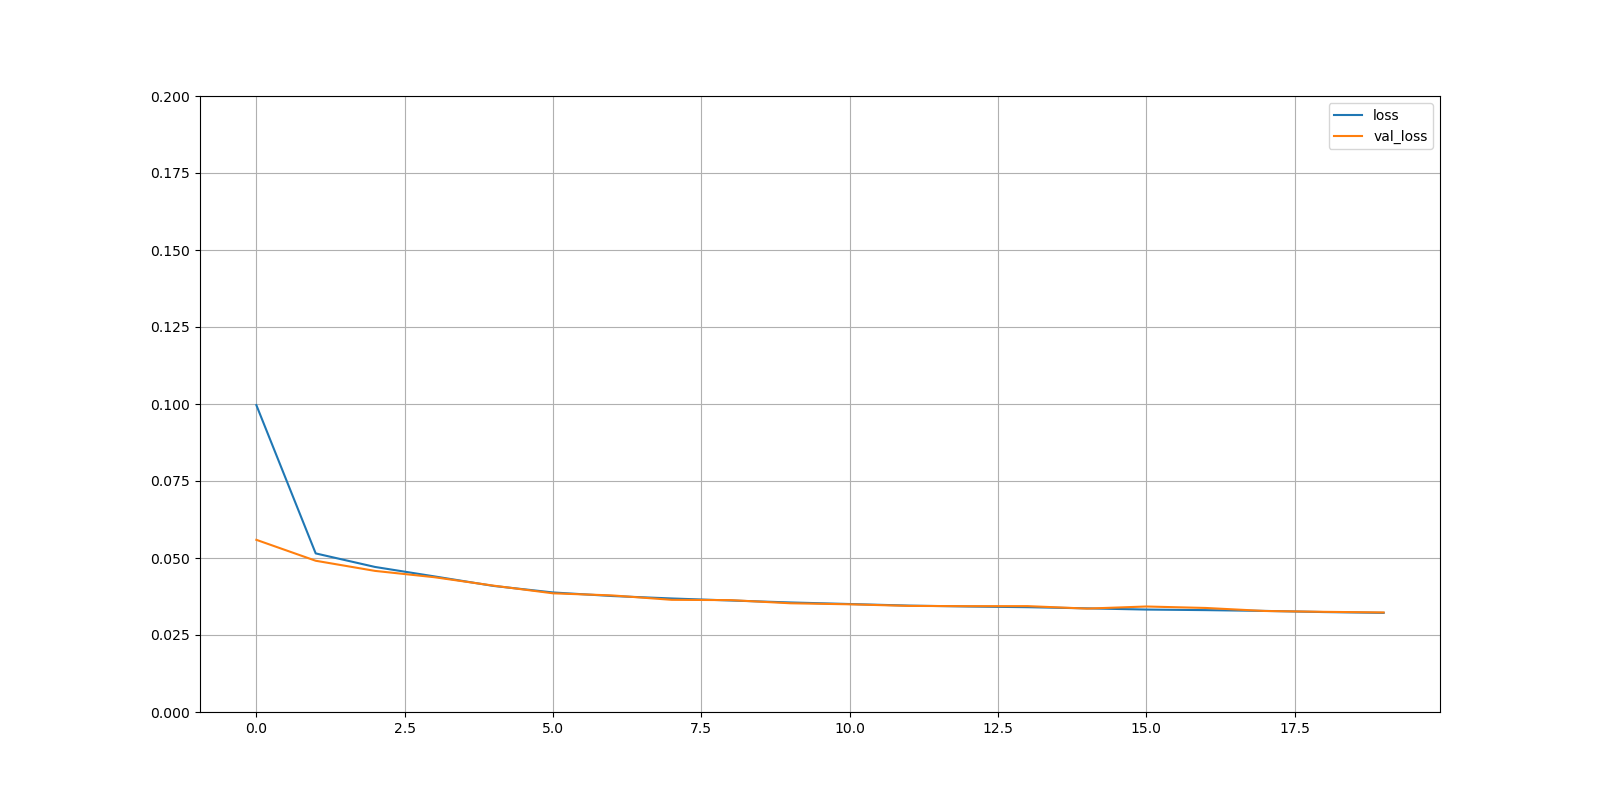
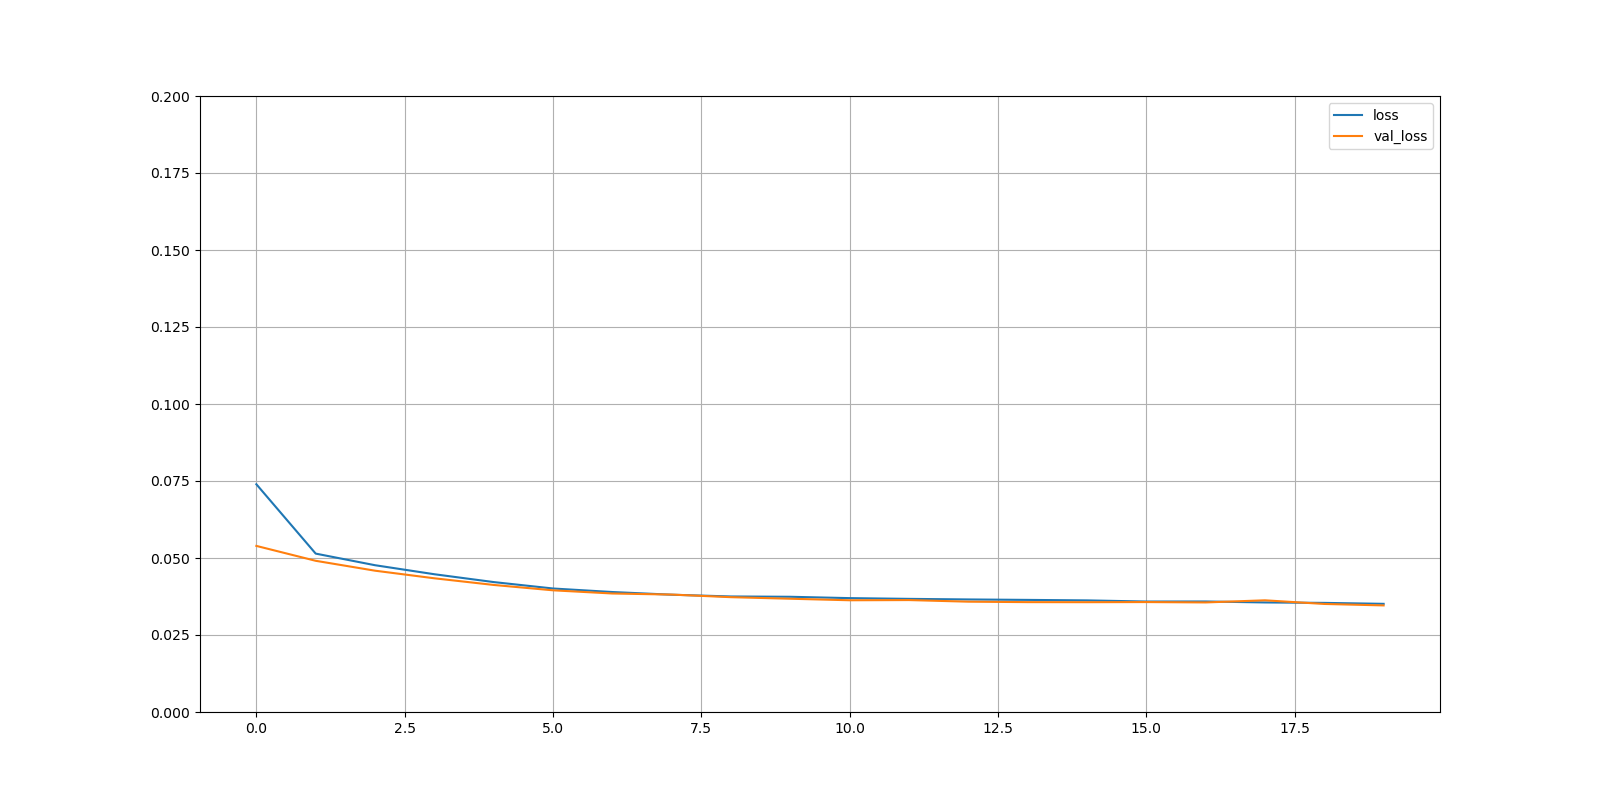
Custom RNN

Changed region(s): [[0.2188, 0.6875, 0.875, 0.7812], [0.1562, 0.5938, 0.2188, 0.6875]]

diff --git a/RNN.py b/RNN.py
@@ -2,7 +2,12 @@ import numpy as np
 from numpy import random
 import matplotlib.pyplot as plt
 import tensorflow as tf
+from tensorflow import keras
 import pandas as pd
+
+gpu = tf.config.experimental.list_physical_devices('GPU')
+tf.config.experimental.set_memory_growth(gpu[0], True)
+
 
 def generate_time_series(batch_size = 1 , n_time_steps = 50, n = 1):
     freq1, freq2, offset1 , offset2 = random.rand(4, batch_size, 1)
@@ -18,6 +23,20 @@ def generate_time_series(batch_size = 1 , n_time_steps = 50, n = 1):
         batch_size,n_time_steps
     )
     return series.astype(np.float32)
+
+class LNSimpleRNNCell(keras.layers.Layer):
+    def __init__(self, units, activation="tanh", **kwargs):
+        super().__init__(**kwargs)
+        self.state_size = units
+        self.output_size = units
+        self.simple_rnn_cell = keras.layers.SimpleRNNCell(units,
+        activation=None)
+        self.layer_norm = keras.layers.LayerNormalization()
+        self.activation = keras.activations.get(activation)
+    def call(self, inputs, states):
+        outputs, new_states = self.simple_rnn_cell(inputs, states)
+        norm_outputs = self.activation(self.layer_norm(outputs))
+        return norm_outputs, [norm_outputs]
 
 steps = 50
 batch_size = 10000
@@ -35,19 +54,19 @@ X_test, y_test = dataset[9000:, 0:steps], Y[9000:,:,:]
 print(y_valid.shape, y_train.shape)
 
 
-input = tf.keras.layers.Input(shape = (steps,1))
-x = tf.keras.layers.SimpleRNN(20, return_sequences =True)(input)
-x = tf.keras.layers.SimpleRNN(20, return_sequences = True)(input)
-y = tf.keras.layers.SimpleRNN(10, return_sequences = True)(x)
-model = tf.keras.Model(inputs = [input], outputs = [y])
+# input = tf.keras.layers.Input(shape = (steps,1))
+# x = tf.keras.layers.SimpleRNN(20, return_sequences =True)(input)
+# x = tf.keras.layers.SimpleRNN(20, return_sequences = True)(input)
+# y = tf.keras.layers.TimeDistributed(tf.keras.layers.Dense(10))(x)
+# model = tf.keras.Model(inputs = [input], outputs = [y])
 
-print(model.summary())
-model.compile(loss = "mean_squared_error", optimizer = "Adam")
-history = model.fit(X_train, y_train,epochs = 20,validation_data=(X_valid, y_valid))
-pd.DataFrame(history.history).plot(figsize = (16, 8))
-plt.grid(True)
-plt.gca().set_ylim(0,0.2)
-plt.savefig('./plot7.png')
+# print(model.summary())
+# model.compile(loss = "mean_squared_error", optimizer = "Adam")
+# history = model.fit(X_train, y_train,epochs = 20,validation_data=(X_valid, y_valid))
+# pd.DataFrame(history.history).plot(figsize = (16, 8))
+# plt.grid(True)
+# plt.gca().set_ylim(0,0.2)
+# plt.savefig('./plot7.png')
 
 
 
@@ -57,25 +76,26 @@ plt.savefig('./plot7.png')
 # print(y_valid.shape, y_train.shape)
 
 # input = tf.keras.layers.Input(shape = (steps,1))
-#1. x = tf.keras.layers.Flatten()(input)
+# x = tf.keras.layers.Flatten()(input)
 # y = tf.keras.layers.Dense(1)(x)
 
-# x = tf.keras.layers.SimpleRNN(20, return_sequences =True)(input)
-# x = tf.keras.layers.SimpleRNN(20, return_sequences = False)(input)
-# y = tf.keras.layers.Dense(10)(x)
 
-# model = tf.keras.Model(inputs = [input], outputs = [y])
-# print(model.summary())
-# model.compile(loss = "mean_squared_error", optimizer = "Adam")
-# history = model.fit(X_train, y_train,epochs = 20,validation_data=(X_valid, y_valid))
-# print(history.params)
-# print(history.epoch)
-# print(history.history)
+input = tf.keras.layers.Input(shape = (steps,1))
+x = tf.keras.layers.SimpleRNN(20, return_sequences =True)(input)
+x = keras.layers.RNN(LNSimpleRNNCell(20), return_sequences=True)(x)
+y = keras.layers.TimeDistributed(keras.layers.Dense(10))(x)
 
-# pd.DataFrame(history.history).plot(figsize = (16, 8))
-# plt.grid(True)
-# plt.gca().set_ylim(0,0.2)
-# plt.savefig('./plot5.png')
+
+model = tf.keras.Model(inputs = [input], outputs = [y])
+print(model.summary())
+model.compile(loss = "mean_squared_error", optimizer = "Adam")
+history = model.fit(X_train, y_train,epochs = 20,validation_data=(X_valid, y_valid))
+
+
+pd.DataFrame(history.history).plot(figsize = (16, 8))
+plt.grid(True)
+plt.gca().set_ylim(0,0.2)
+plt.savefig('./plot8.png')
 
 # dataset_new = generate_time_series(batch_size, n_time_steps = steps + 10 + 1)
 
